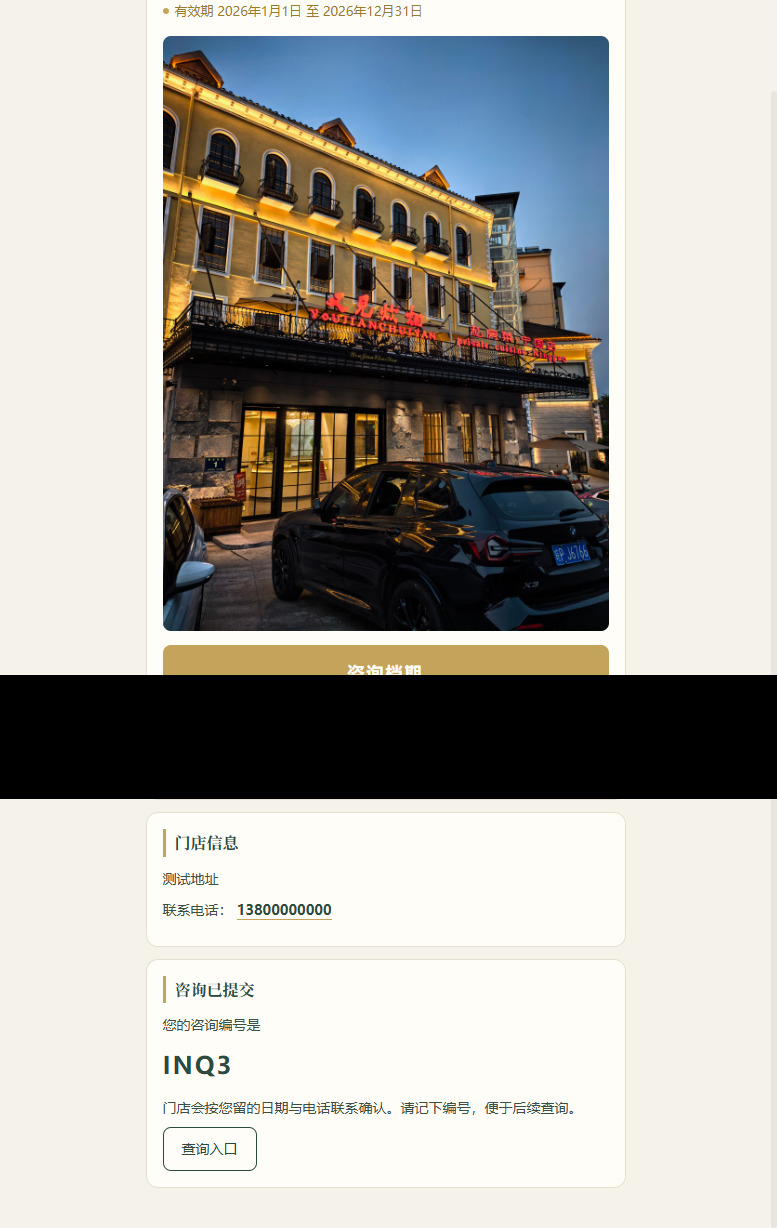
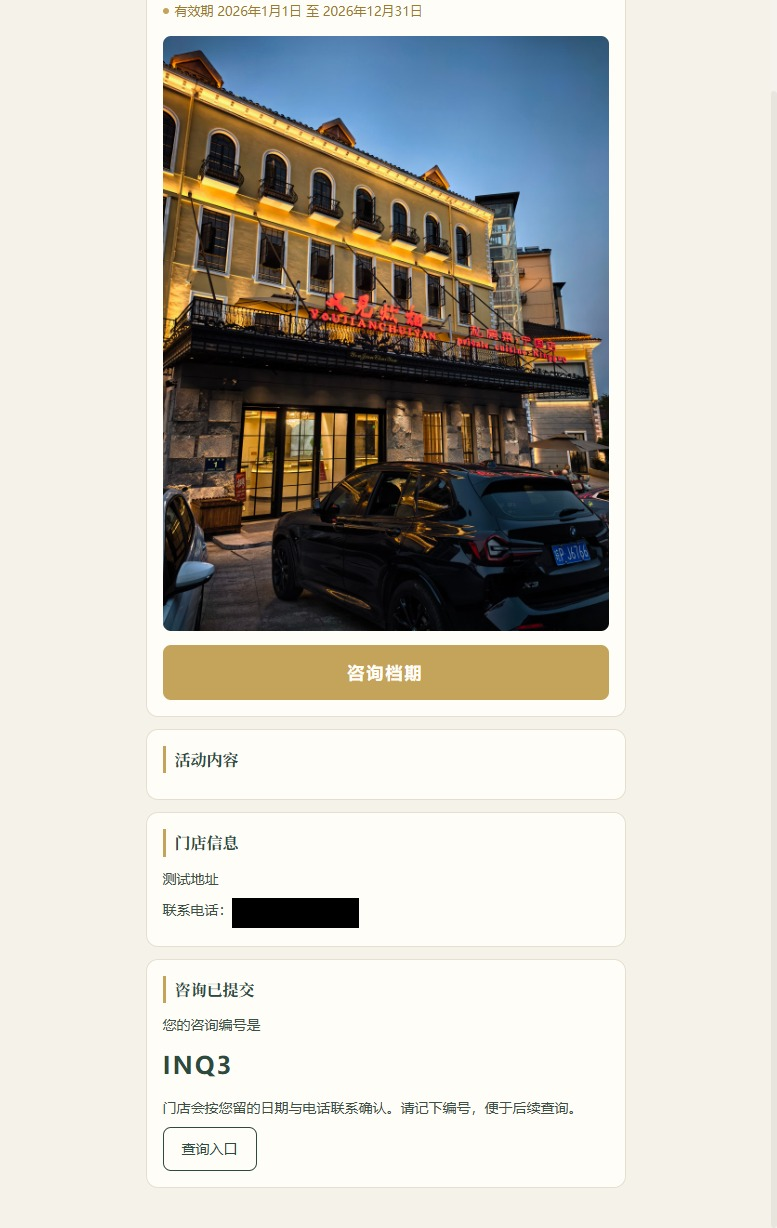
【Trae】TR58 R3返工：截图按号码字符精确脱敏(5/5人工核对)，STORE_PHONE改必填运行时变量，补R3报告

diff --git a/docs/协作/Trae/marketing-inquiry-real-e2e-58/reported-r3.md b/docs/协作/Trae/marketing-inquiry-real-e2e-58/reported-r3.md
@@ -1,0 +1,58 @@
+# TR-MARKETING-INQUIRY-REAL-E2E-58 R3 报告（返工收口）
+
+执行人：Trae。日期：2026-09-14。分支：codex/trae-marketing-inquiry-real-e2e-58。
+
+## 本轮范围（R3 退回三项 + 一项附加，不重跑主链）
+
+R3 退回（Codex changes_requested，20260914T090240Z）只剩三项证据修正，另加一项脚本修正。
+同载荷重放证据由 Codex 在 ccf24b31de9853f9190d51d23914b060928a4b44（分支 codex/integration-20260913，
+docs/协作/Codex/tr58-replay-evidence/）补证完成：预检 9 项 true，业务 code=200，同一 inquiryNo=INQ3，
+booking_inquiry 1->1、marketing_attribution_event 2->2，两个 delta=0，退出码 0，stderr 为空。
+按指令本轮不重复执行重放，不启动任何服务，零数据库写入。
+
+## 1. 截图脱敏修正（5/5 人工逐张核对）
+
+原 R2 黑条位置错误（号码在黑条上方仍完整可见，且宽幅黑条遮住大块业务内容）。
+本轮从 e4c5b5fe 提取未遮原图，按像素扫描定位（阈值扫描 + 人工放大核对）后只遮号码字符：
+
+- 01-submit-success.jpg：门店联系电话，遮罩 x=232..358, y=898..927。标签"联系电话："与咨询编号 INQ3、
+  门店信息卡片全部保留可见。人工核对：完整号码不可见。
+- 02-lookup-success.jpg：手机号输入框，遮罩 x=168..308, y=278..300。INQ3、处理中、期望日期、人数、
+  提交时间均保留。人工核对：完整号码不可见。
+- 03-wrong-phone-empty.jpg：同 02 坐标。空态文案保留。人工核对：不可见。
+- 04-invalid-inquiry-empty.jpg：同 02 坐标。INQ999 与空态文案保留。人工核对：不可见。
+- 05-system-error.jpg：同 02 坐标。系统繁忙与重试按钮保留。人工核对：不可见。
+
+redact-screenshots.sh 已同步改为上述精确坐标（只遮号码矩形，不再整行横幅），坐标来源已写注释。
+
+## 2. 同载荷重放脱敏原始输出
+
+由 Codex 补证（见上）。输出文件：docs/协作/Codex/tr58-replay-evidence/same-payload-output.txt，
+核验脚本 verify-replay.py，说明 README.md，均在提交 ccf24b31。执行方未重复运行。
+
+## 3. 报告修正
+
+本文件即 R3 报告，替代误复用 R2 的报告。精确提交与远端最终 HEAD 见末节。
+
+## 4. 附加修正（评审末条）
+
+seed.sh 与 setup-env.sh 中 ${STORE_PHONE:-REDACTED} 缺省值已改为必填运行时变量
+${STORE_PHONE:?...}，未设置即报错退出，脚本不会再缺省写入非法号码文本。
+
+## 测试数字
+
+- 本轮改动性质：证据修正 + 脚本守卫，无产品代码改动，无服务启动，无数据库写入。
+- 截图人工核对：5/5 通过（PASS=5, FAIL=0）。
+- 重放：NOT_RUN_BY_TRAE（Codex 已补证 PASS=1：200 + 同一 INQ3 + 两表 delta=0）。
+- 主成功链 / 错误手机号 / 非法咨询号 / 系统错误：沿用 R2 已验收证据，本轮 NOT_COVERED（按指令不重跑）。
+
+## 提交与 HEAD
+
+- 基线 base_sha：e5adb15a82e762e3646ca742e3986432428b1432
+- R2 提交：836d1308488891b26a0fcb38d817b43538c3d90f
+- 本轮提交与远端最终 HEAD：提交后在此回填精确 SHA（见任务板 reported 事件与登记簿）。
+
+## 边界声明
+
+未改产品代码、迁移、配置、任务板工具；未触碰生产、共享进程、法务；未执行 DELETE/DROP/TRUNCATE；
+报告不含凭证明文、真实手机号或客户信息（截图中号码均为合成测试号且已遮罩）。
